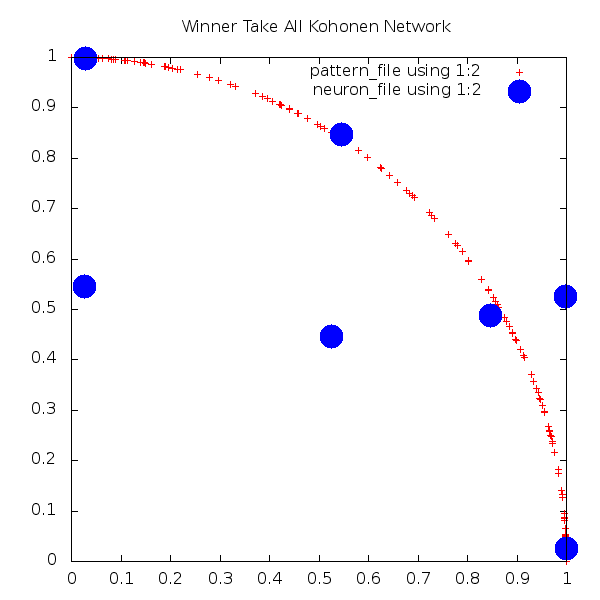
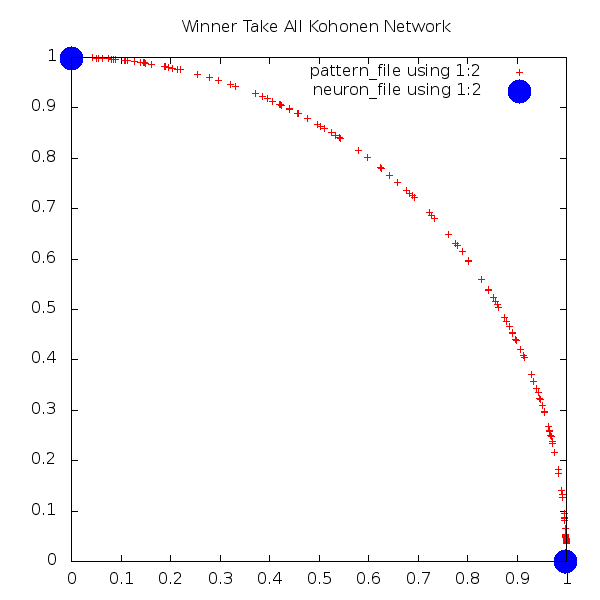
some progress on report

diff --git a/Final/README.md b/Final/README.md
@@ -1,10 +1,53 @@
-# Final Project
+# CMSC 409 - Final Take Home Exam 
 
 **I fully understand that I am on my honor to do my own work on this exam. If I violate this confidence, I amy receive a letter of "F" for this exam or for the course, or be expelled from the program.**
 
 Keith Herbert, 13 December 2015
 
 ## 1. Kohonen Winner-Take-All Unsupervised Clustering
+I had a difficult time getting started on this problem. My first fault was using the wrong lecture slides as a reference. I didn't understand how to use only 2 neuron's for a Kohonen network when the slides showed a whole grid of neurons. I also struggled with adapting my language of choice, R, to the problem. Fustrated, I decided to try learning MATLAB to attack the problem but felt overwhelmed and gave up to work on other projects I had due. After finishing a High Performance Computing project in Fortran, I realized that I could save my sanity by starting over again in Fortran. I also found that I was trying to implement the wrong kind of clustering network and started fresh with the slides from Session 11.  
+
+----------------------------------------------------------------------------------------------
+
+My solution to this problem is written in Fortan and uses Gnuplot for visualization. To run it, first go to the `kohonen` directory and compile the Fortran source code into an executable.
+
+```
+        $ cd kohonen
+        $ gfortran kohonen.f90 -o kohonen.exe
+```
+
+To execute it, provide the filename containing the input patterns, the number of neurons, the number of features in each pattern, the learning rate alpha, and an integer to seed the random number generator. Here, we specify the Ex1 dataset with 2 neurons, 2 dimensions, alpha = 0.1 and the PRNG seeded to '12345'. (As a side note, the header line of Ex1_data.txt was removed to simplify reading).
+
+```
+    $ ./kohonen.exe ../data/Ex1_data.txt 2 2 0.1 12345 
+```
+
+The program prints the values for each pattern, their associated net values for each neuron, the number of the winning neuron, its new weighting after adjusting by the learning constant, and its normalized new weight. The final weights for each neuron are printed at the end. This can flood your terminal, so it might be best to append a `| less` to the command string. Plotting ready data files are written in the background for the normalized weights of the input patterns (default: `normalized_patterns.txt`) and for the normalized final neuron weights(`neurons.txt`). 
+
+To plot, run gnuplot with the provided script `kohonen.plt`. This generates a .png file with the normalized patterns as tiny red crosses and the final neuron weights as big blue dots.
+
+```
+    $ gnuplot kohonen.plt
+    Plotting to kohonen_7_neurons.png
+```
+
+### Raw data patterns
+
+[kohonen/kohonen_raw.png]
+
+### Normalized data patterns
+
+### Two-neuron network with random weights
+
+### Two-neuron network with pre-set weights
+
+### Three-neuron network with random weights
+
+### Three-neuron network with pre-set weights
+
+### Seven-neuron network with random weights
+
+### Seven-neuron network with pre-set weights
 
 
 
